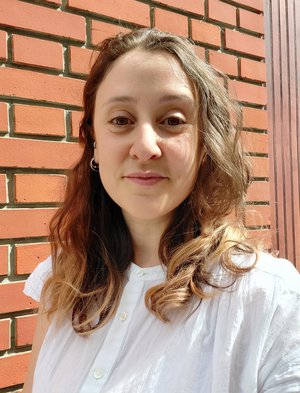
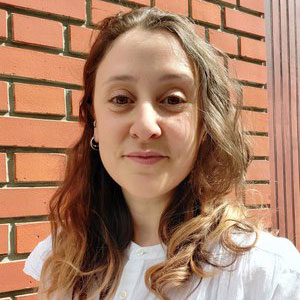
feat: team page layout and style

diff --git a/frontend/src/assets/stylesheets/main.scss b/frontend/src/assets/stylesheets/main.scss
@@ -8,7 +8,9 @@
 // Project Individual Page
 // People/Organisations Index Page
 // Person/Organisation Individual Page
+// Team
 // Page Pagination
+// Footer
 
 //-- Fonts --
 @import "fonts";
@@ -1116,6 +1118,43 @@ main.organisation {
     }
   } //ul
 } //main.person
+
+//-- Team --
+main.team {
+  article {
+    ul {
+      margin-left: -40px;
+      li {
+        display: flex;
+        margin-bottom: 3em;
+        img {
+          width: 300px;
+          height: 300px;
+          object-fit: cover;
+          margin-right: 3%;
+        } //img
+        section {
+          width: calc(97% - 300px);
+          h3 {
+            margin-bottom: 0;
+            a {
+              text-decoration: none;
+              &:hover {
+                text-decoration: underline;
+                text-decoration-style: dashed;
+              }
+            }
+          }
+          h2{
+            color:$darkgray;
+            font-size:1.2em;
+            font-family: KingsBureauGrotFiveOne, sans-serif;
+          }
+        }
+      } //li
+    } //ul
+  } //article
+} //main.team
 
 //-- Page Pagination --
 nav.pagination {
